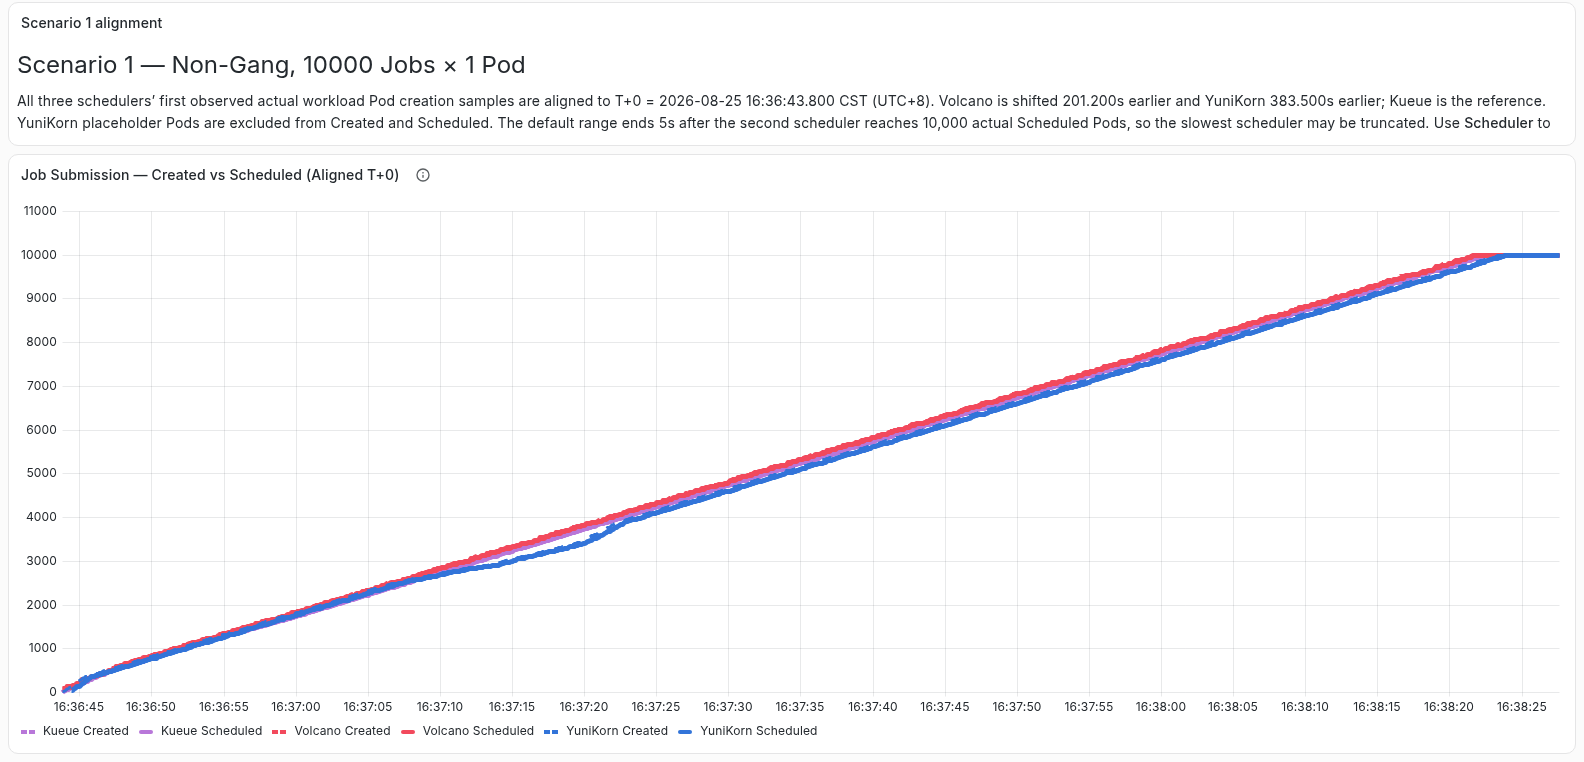
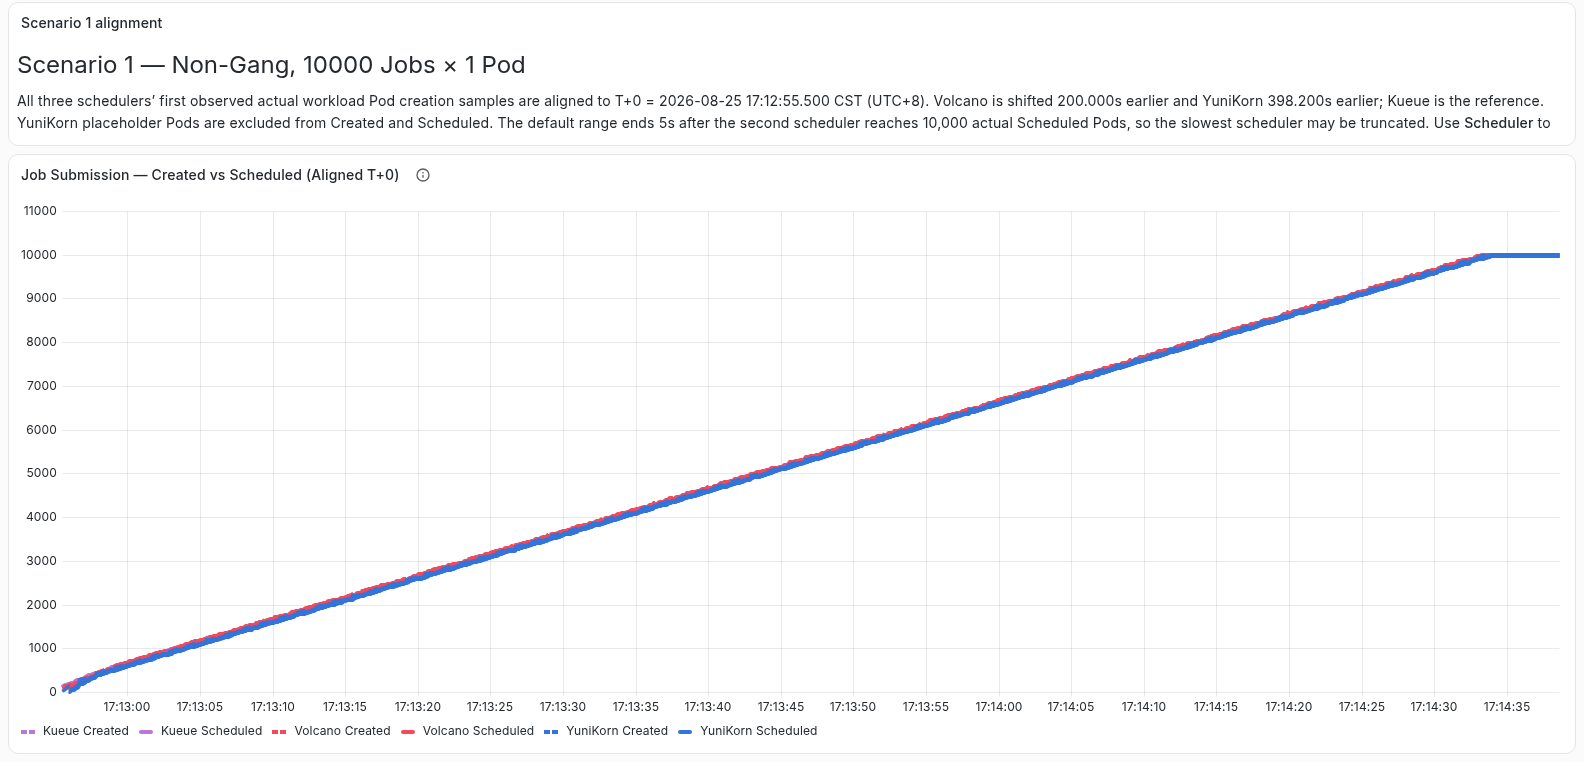
results: full test 082517

diff --git a/full_test_report_082517.md b/full_test_report_082517.md
@@ -1,0 +1,33 @@
+# 完整性测试报告（失败）
+
+## 1. 执行概要
+
+- 测试 Commit：`83e8c19d2cf823e4546f425aa9bb980b3f262b14`
+- 命令：`make`（tmux：`full-integrity-20260825171115`）
+- CST 开始/结束：2026-08-25 17:12:33 / 2026-08-25 17:22:43；耗时 10 分 10.589 秒
+- `make` 退出码：2；`make down` 退出码：0
+- 已通过 Case：3/24；当前运行更新的场景：1/8
+- 总体状态：失败
+
+## 2. 八个场景的时间边界与结果目录
+
+| 场景 | 模式与参数 | CST（UTC+8）时间边界 | 耗时 | 指标时间窗（毫秒） | 结果目录 | 结果 |
+|---|---|---|---|---|---|---|
+| 1 | 非 Gang，1×10000×1 | 2026-08-25 17:12:33 - 2026-08-25 17:22:38 | 10 分 5 秒 | 见 results/scenario-1/result-window.txt | results/scenario-1 | 失败：3 个 Case 通过，Kueue/YuniKorn 结果暂存目录残留 |
+| 2 | 非 Gang，1×500×20 | 未执行 | - | - | results/scenario-2（未更新） | 未执行 |
+| 3 | 非 Gang，1×20×500 | 未执行 | - | - | results/scenario-3（未更新） | 未执行 |
+| 4 | 非 Gang，1×1×10000 | 未执行 | - | - | results/scenario-4（未更新） | 未执行 |
+| 5 | Gang，1×10000×1 | 未执行 | - | - | results/scenario-5（未更新） | 未执行 |
+| 6 | Gang，1×500×20 | 未执行 | - | - | results/scenario-6（未更新） | 未执行 |
+| 7 | Gang，1×20×500 | 未执行 | - | - | results/scenario-7（未更新） | 未执行 |
+| 8 | Gang，1×1×10000 | 未执行 | - | - | results/scenario-8（未更新） | 未执行 |
+
+## 3. 问题说明
+
+三个 `TestBatchJob` 均通过：Kueue 138.44s、Volcano 112.55s、YuniKorn 118.42s。结果保存阶段中，`tmp/result-kueue-staging` 和 `tmp/result-yunikorn-staging` 是上一轮失败遗留目录；Makefile 的防覆盖检查在运行结果解析脚本前终止，报 `Scheduler result staging already exists`。因此本轮未能端到端验证新修复。证据位于 `/tmp/full-integrity-20260825171115/make.log` 第 30537-30584 行。
+
+`make down` 已成功执行，实验资源已清理，所有调度器和 Audit Exporter 已恢复为 1/1 空闲基线。
+
+## 4. 最终结论
+
+失败。场景 1 的 3 个 Case 通过，但因前次失败遗留暂存目录而未完成结果保存，后续七个场景没有开始；集群已恢复空闲基线。
